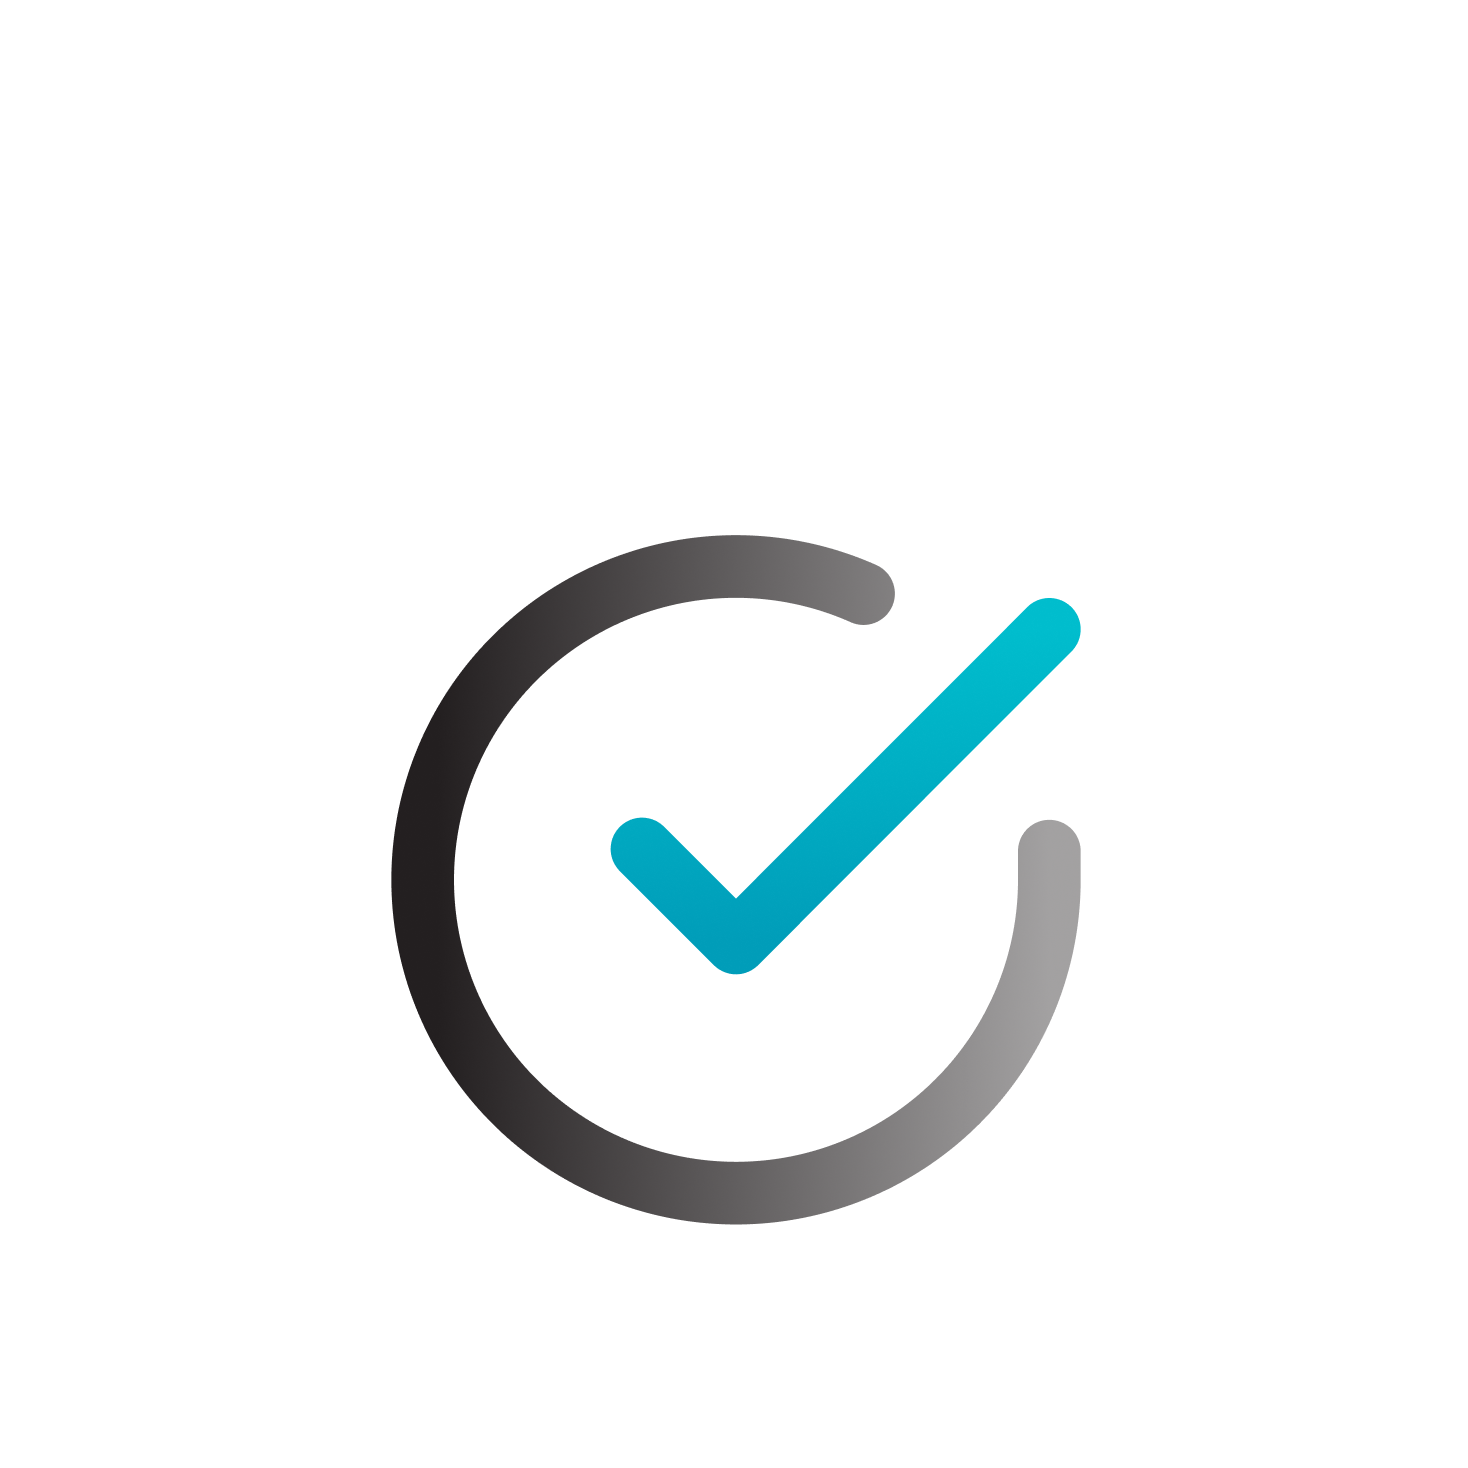
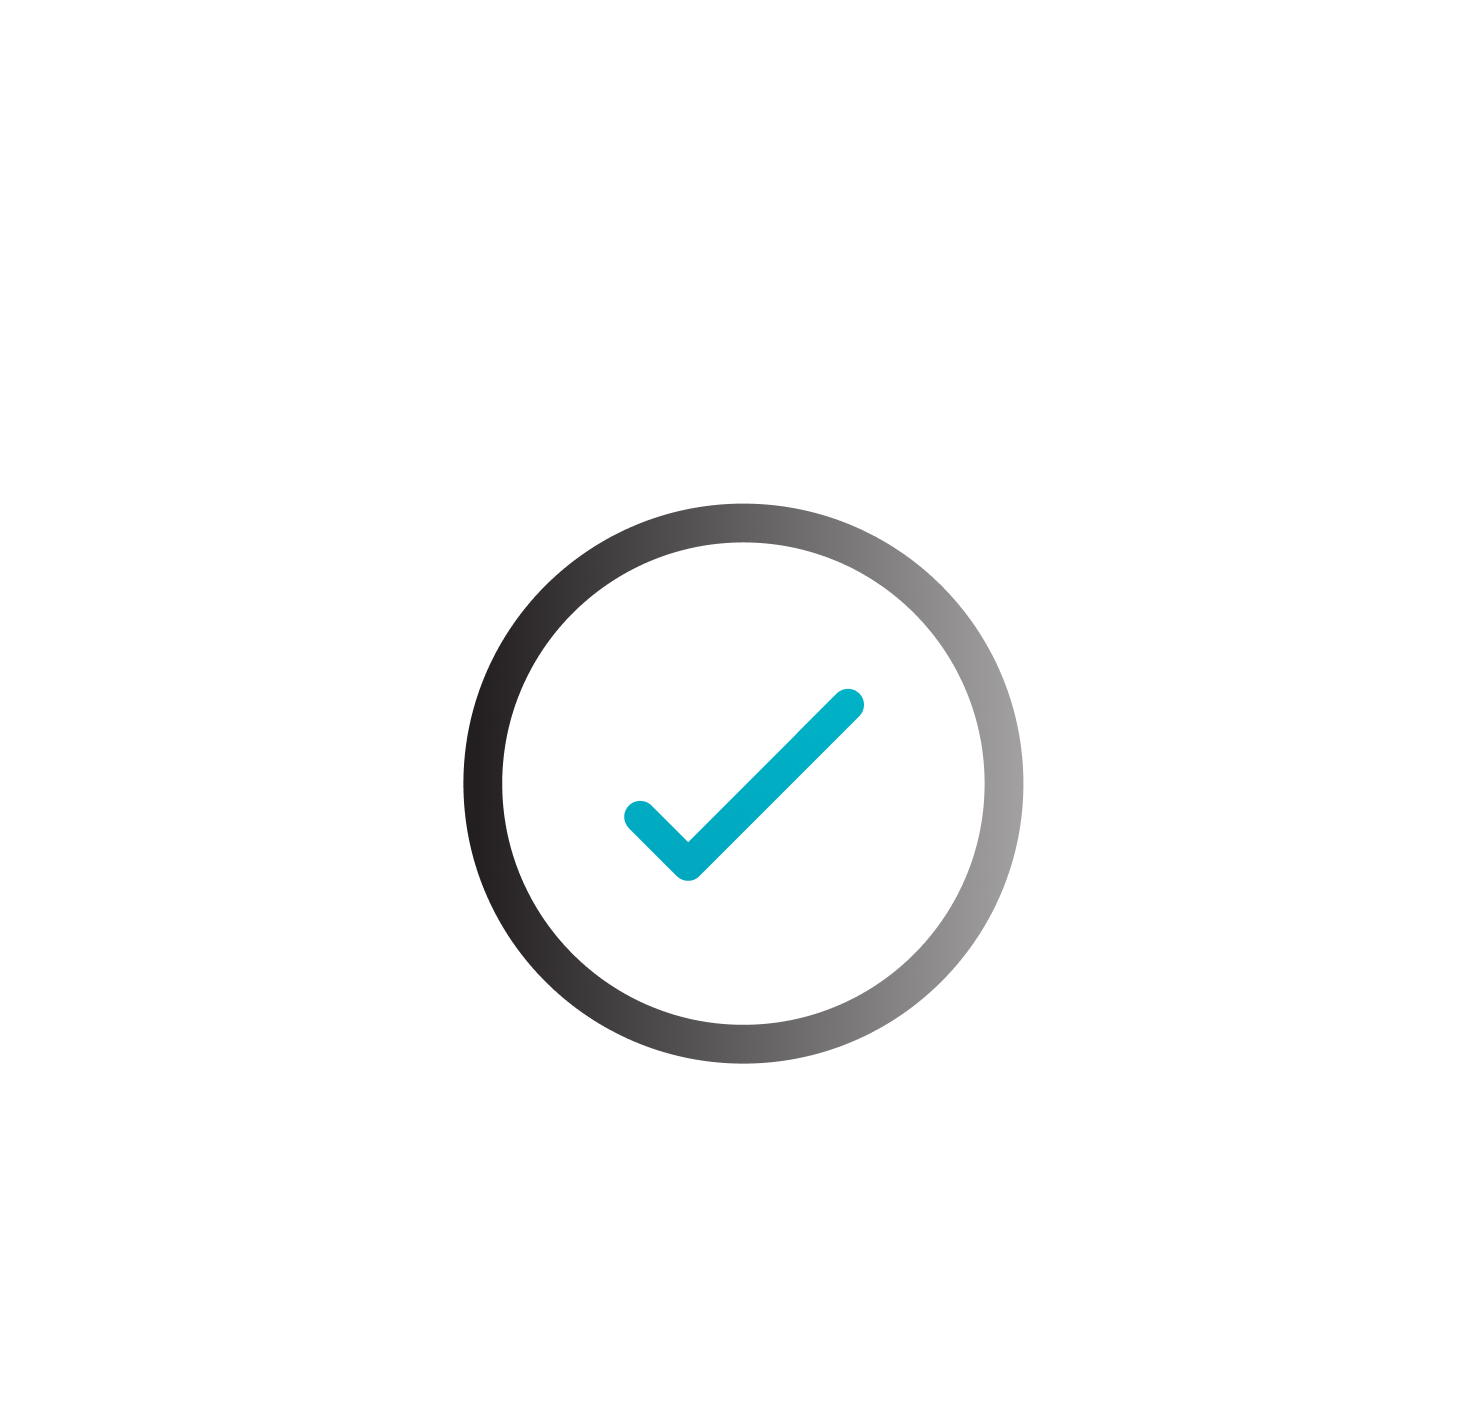
SFT-1979: update passport screens

Changed region(s): [[0.2452, 0.3438, 0.7357, 0.8438]]

diff --git a/lib/ui/pages/pp/pp_restore_backup_password.dart b/lib/ui/pages/pp/pp_restore_backup_password.dart
@@ -12,7 +12,7 @@ class PpRestoreBackupPasswordPage extends StatelessWidget {
   Widget build(BuildContext context) {
     return OnboardingPage(
       key: Key("pp_restore_backup_password"),
-      clipArt: Image.asset("assets/pp_encryption_words.png"),
+      clipArt: Image.asset("assets/pp_backup_code.png"),
       text: [
         OnboardingText(
             header: S().envoy_pp_restore_backup_password_heading,
